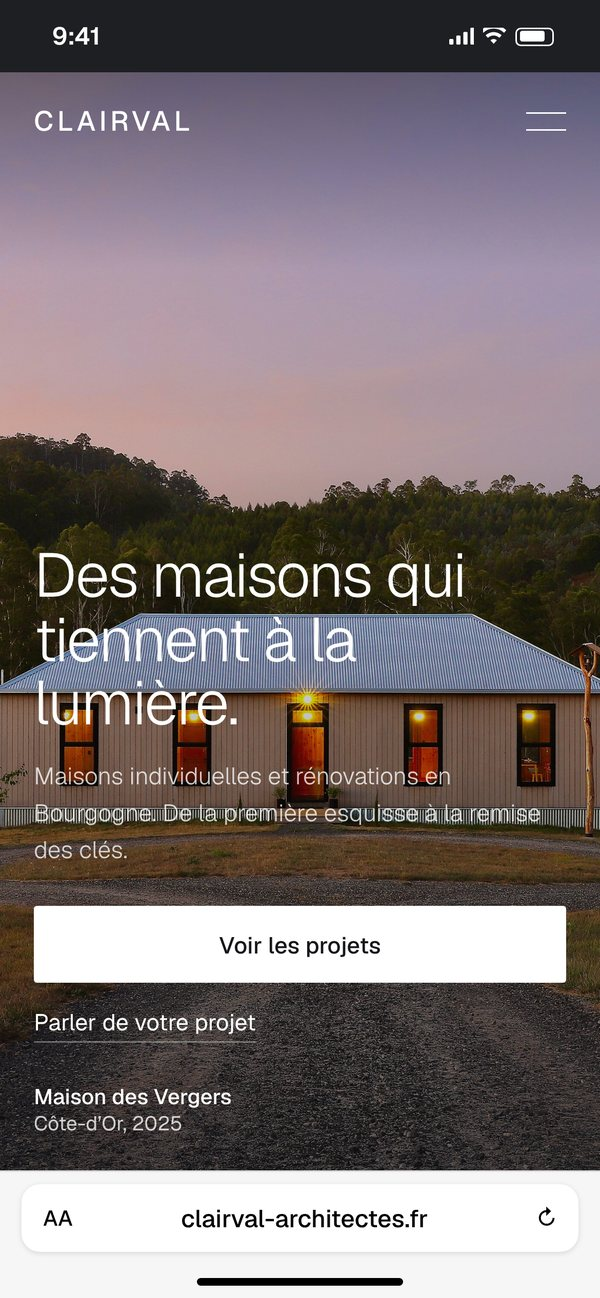
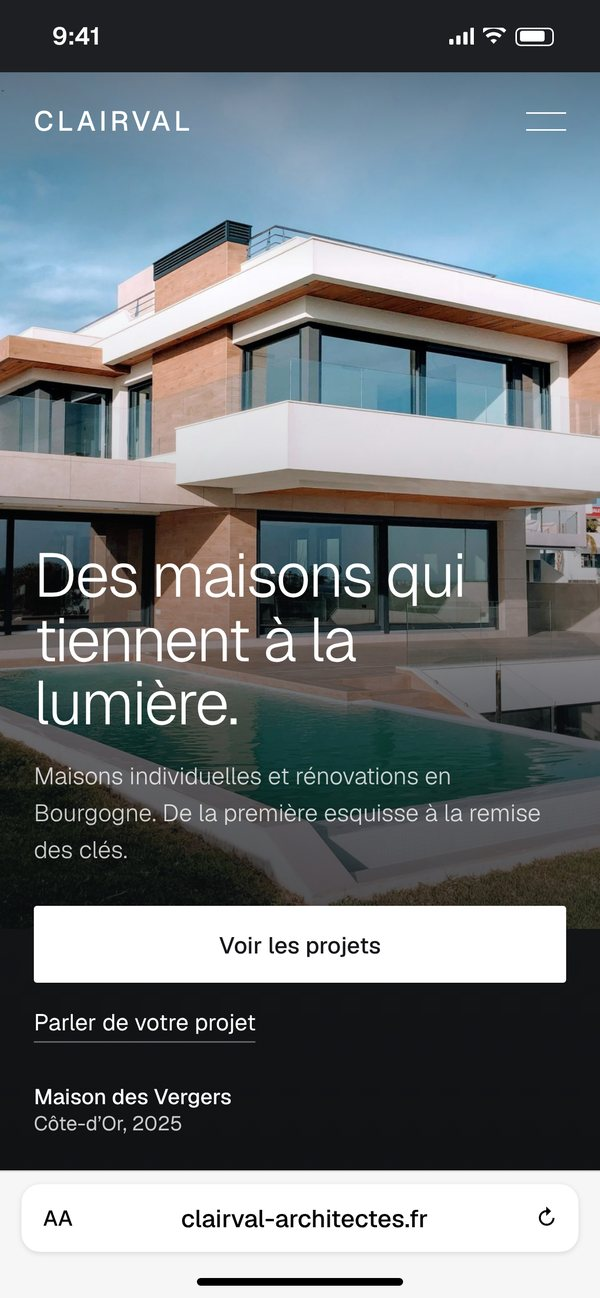
Villa dans la maquette d'architecte, boutons de devis en moutarde
- Écrans du MacBook et de l'iPhone refaits avec la photo de villa fournie
- Voile de lecture sur le côté du titre de la maquette
- Boutons « Demander un devis » en moutarde sur tout le site
- Fond moutarde pâle derrière les appareils, filet moutarde sur les garanties

Claude-Session: https://claude.ai/code/session_015KaNtPX6FjVJgCZw71evrJ

diff --git a/assets/css/site.css b/assets/css/site.css
@@ -53,10 +53,9 @@ strong, b { font-weight: 600; }
 /* ---------- Boutons et liens ---------- */
 .btn { display: inline-flex; align-items: center; justify-content: center; min-height: 50px; padding: 0 22px; border-radius: 10px; background: var(--ink); color: #fff; text-decoration: none; font-size: 16px; font-weight: 600; letter-spacing: -.005em; white-space: nowrap; transition: background-color .2s, color .2s, box-shadow .2s; }
 .btn:hover { background: #3A3833; }
-.btn--mustard { background: var(--ink); color: #fff; }
-.btn--mustard:hover { background: #3A3833; }
-.ink .btn--mustard, .cta .btn--mustard, .mbar .btn--mustard, .menu .btn--mustard, .plan--pro .btn--mustard { background: var(--mustard); color: var(--ink); }
-.ink .btn--mustard:hover, .cta .btn--mustard:hover, .mbar .btn--mustard:hover, .menu .btn--mustard:hover, .plan--pro .btn--mustard:hover { background: var(--mustard-2); }
+/* Le bouton de demande de devis : la seule touche de couleur vive du site */
+.btn--mustard { background: var(--mustard); color: var(--ink); }
+.btn--mustard:hover { background: var(--mustard-2); }
 .btn--ghost { background: transparent; color: inherit; box-shadow: inset 0 0 0 1.5px var(--line-d2); }
 .btn--ghost:hover { background: rgba(242, 238, 228, .08); box-shadow: inset 0 0 0 1.5px var(--cream); }
 .btn--line { background: transparent; color: var(--ink); box-shadow: inset 0 0 0 1.5px var(--line-2); }
@@ -128,7 +127,7 @@ main { display: block; }
 
 /* Les appareils sont dessinés en pourcentages : ils suivent la largeur de leur colonne */
 .devices { margin: 0; }
-.devices__stage { position: relative; padding-bottom: 5%; }
+.devices__stage { position: relative; padding: 7% 5% 6%; border-radius: clamp(14px, 1.8vw, 24px); background: #F7EDC9; }
 .mbp { position: relative; width: 94%; }
 .mbp__lid { width: 89%; margin: 0 auto; padding: 1.5% 1.45% 2.3%; background: #0E0E0F; border-radius: clamp(10px, 1.5vw, 22px) clamp(10px, 1.5vw, 22px) 4px 4px; box-shadow: inset 0 0 0 1.5px #3A3A3D, 0 0 0 1.5px #B8B9BC; }
 .mbp__screen { position: relative; aspect-ratio: 1600 / 1039; overflow: hidden; border-radius: clamp(3px, .5vw, 8px) clamp(3px, .5vw, 8px) 1px 1px; background: #1d1f22; }
@@ -137,7 +136,7 @@ main { display: block; }
 .mbp__base { position: relative; height: 0; padding-bottom: 2.4%; margin-top: -1px; border-radius: 1px 1px 50% 50% / 1px 1px 100% 100%; background: linear-gradient(#E4E5E7, #C9CACD 50%, #95969A); }
 .mbp__base i { position: absolute; left: 50%; top: 0; width: 14%; height: 40%; transform: translateX(-50%); border-radius: 0 0 8px 8px; background: linear-gradient(#ACADB0, #D2D3D6); }
 .mbp::after { content: ""; position: absolute; left: 6%; right: 6%; bottom: -3.2%; height: 4%; border-radius: 50%; background: radial-gradient(closest-side, rgba(20, 20, 18, .28), transparent); z-index: -1; }
-.iph { position: absolute; right: 0; bottom: 0; width: 23.5%; padding: 1.05%; background: #121213; border-radius: 15.5% / 7.4%; box-shadow: inset 0 0 0 1.5px #4A4A4E, 0 0 0 1px #9C9DA1, 0 28px 48px -22px rgba(20, 20, 18, .55); }
+.iph { position: absolute; right: 4%; bottom: 4%; width: 22%; padding: 1%; background: #121213; border-radius: 15.5% / 7.4%; box-shadow: inset 0 0 0 1.5px #4A4A4E, 0 0 0 1px #9C9DA1, 0 28px 48px -22px rgba(20, 20, 18, .55); }
 .iph__screen { position: relative; aspect-ratio: 600 / 1298; overflow: hidden; border-radius: 13.6% / 6.3%; background: #1d1f22; }
 .iph__screen img { display: block; width: 100%; height: 100%; object-fit: cover; }
 .iph__notch { position: absolute; left: 50%; top: 0; width: 41%; height: 3.8%; transform: translateX(-50%); background: #000; border-radius: 0 0 14px 14px; }
@@ -194,7 +193,7 @@ a.browser { display: block; text-decoration: none; color: inherit; }
 
 /* ---------- Repères ---------- */
 .keys { display: grid; grid-template-columns: repeat(4, minmax(0, 1fr)); gap: 24px 32px; }
-.keys > div { padding-top: 14px; border-top: 1px solid var(--ink); }
+.keys > div { padding-top: 14px; border-top: 2px solid var(--mustard); }
 .keys b { display: block; font-size: 1.12rem; font-weight: 600; letter-spacing: -.015em; }
 .keys span { display: block; margin-top: 4px; color: var(--muted); font-size: 15.5px; }
 

diff --git a/index.html b/index.html
@@ -21,7 +21,7 @@
   <link rel="preload" href="assets/fonts/bricolage-grotesque.woff2" as="font" type="font/woff2" crossorigin>
   <link rel="preload" href="assets/fonts/geist.woff2" as="font" type="font/woff2" crossorigin>
   <link rel="stylesheet" href="assets/css/fonts.css">
-  <link rel="stylesheet" href="assets/css/site.css?v=f07e5ffe">
+  <link rel="stylesheet" href="assets/css/site.css?v=63537206">
   <script type="application/ld+json">
   {
     "@context": "https://schema.org",
@@ -238,7 +238,7 @@
     <a class="btn btn--mustard" href="contact.html">Demander un devis</a>
   </div>
 
-  <script src="assets/js/site.js?v=f07e5ffe" defer></script>
+  <script src="assets/js/site.js?v=63537206" defer></script>
 
 </body>
 </html>

diff --git a/a-propos.html b/a-propos.html
@@ -21,7 +21,7 @@
   <link rel="preload" href="assets/fonts/bricolage-grotesque.woff2" as="font" type="font/woff2" crossorigin>
   <link rel="preload" href="assets/fonts/geist.woff2" as="font" type="font/woff2" crossorigin>
   <link rel="stylesheet" href="assets/css/fonts.css">
-  <link rel="stylesheet" href="assets/css/site.css?v=f07e5ffe">
+  <link rel="stylesheet" href="assets/css/site.css?v=63537206">
 
 </head>
 <body class="">
@@ -129,7 +129,7 @@
     <a class="btn btn--mustard" href="contact.html">Demander un devis</a>
   </div>
 
-  <script src="assets/js/site.js?v=f07e5ffe" defer></script>
+  <script src="assets/js/site.js?v=63537206" defer></script>
 
 </body>
 </html>

diff --git a/confidentialite.html b/confidentialite.html
@@ -21,7 +21,7 @@
   <link rel="preload" href="assets/fonts/bricolage-grotesque.woff2" as="font" type="font/woff2" crossorigin>
   <link rel="preload" href="assets/fonts/geist.woff2" as="font" type="font/woff2" crossorigin>
   <link rel="stylesheet" href="assets/css/fonts.css">
-  <link rel="stylesheet" href="assets/css/site.css?v=f07e5ffe">
+  <link rel="stylesheet" href="assets/css/site.css?v=63537206">
 
 </head>
 <body class="">
@@ -161,7 +161,7 @@
     <a class="btn btn--mustard" href="contact.html">Demander un devis</a>
   </div>
 
-  <script src="assets/js/site.js?v=f07e5ffe" defer></script>
+  <script src="assets/js/site.js?v=63537206" defer></script>
 
 </body>
 </html>

diff --git a/contact.html b/contact.html
@@ -21,7 +21,7 @@
   <link rel="preload" href="assets/fonts/bricolage-grotesque.woff2" as="font" type="font/woff2" crossorigin>
   <link rel="preload" href="assets/fonts/geist.woff2" as="font" type="font/woff2" crossorigin>
   <link rel="stylesheet" href="assets/css/fonts.css">
-  <link rel="stylesheet" href="assets/css/site.css?v=f07e5ffe">
+  <link rel="stylesheet" href="assets/css/site.css?v=63537206">
 
 </head>
 <body class="">
@@ -206,7 +206,7 @@
     <a class="btn btn--mustard" href="contact.html">Demander un devis</a>
   </div>
 
-  <script src="assets/js/site.js?v=f07e5ffe" defer></script>
+  <script src="assets/js/site.js?v=63537206" defer></script>
 
 </body>
 </html>

diff --git a/faq.html b/faq.html
@@ -21,7 +21,7 @@
   <link rel="preload" href="assets/fonts/bricolage-grotesque.woff2" as="font" type="font/woff2" crossorigin>
   <link rel="preload" href="assets/fonts/geist.woff2" as="font" type="font/woff2" crossorigin>
   <link rel="stylesheet" href="assets/css/fonts.css">
-  <link rel="stylesheet" href="assets/css/site.css?v=f07e5ffe">
+  <link rel="stylesheet" href="assets/css/site.css?v=63537206">
 
 </head>
 <body class="">
@@ -140,7 +140,7 @@
     <a class="btn btn--mustard" href="contact.html">Demander un devis</a>
   </div>
 
-  <script src="assets/js/site.js?v=f07e5ffe" defer></script>
+  <script src="assets/js/site.js?v=63537206" defer></script>
 
 </body>
 </html>

diff --git a/mentions-legales.html b/mentions-legales.html
@@ -21,7 +21,7 @@
   <link rel="preload" href="assets/fonts/bricolage-grotesque.woff2" as="font" type="font/woff2" crossorigin>
   <link rel="preload" href="assets/fonts/geist.woff2" as="font" type="font/woff2" crossorigin>
   <link rel="stylesheet" href="assets/css/fonts.css">
-  <link rel="stylesheet" href="assets/css/site.css?v=f07e5ffe">
+  <link rel="stylesheet" href="assets/css/site.css?v=63537206">
 
 </head>
 <body class="">
@@ -149,7 +149,7 @@
     <a class="btn btn--mustard" href="contact.html">Demander un devis</a>
   </div>
 
-  <script src="assets/js/site.js?v=f07e5ffe" defer></script>
+  <script src="assets/js/site.js?v=63537206" defer></script>
 
 </body>
 </html>

diff --git a/methode.html b/methode.html
@@ -21,7 +21,7 @@
   <link rel="preload" href="assets/fonts/bricolage-grotesque.woff2" as="font" type="font/woff2" crossorigin>
   <link rel="preload" href="assets/fonts/geist.woff2" as="font" type="font/woff2" crossorigin>
   <link rel="stylesheet" href="assets/css/fonts.css">
-  <link rel="stylesheet" href="assets/css/site.css?v=f07e5ffe">
+  <link rel="stylesheet" href="assets/css/site.css?v=63537206">
 
 </head>
 <body class="">
@@ -150,7 +150,7 @@
     <a class="btn btn--mustard" href="contact.html">Demander un devis</a>
   </div>
 
-  <script src="assets/js/site.js?v=f07e5ffe" defer></script>
+  <script src="assets/js/site.js?v=63537206" defer></script>
 
 </body>
 </html>

diff --git a/offres.html b/offres.html
@@ -21,7 +21,7 @@
   <link rel="preload" href="assets/fonts/bricolage-grotesque.woff2" as="font" type="font/woff2" crossorigin>
   <link rel="preload" href="assets/fonts/geist.woff2" as="font" type="font/woff2" crossorigin>
   <link rel="stylesheet" href="assets/css/fonts.css">
-  <link rel="stylesheet" href="assets/css/site.css?v=f07e5ffe">
+  <link rel="stylesheet" href="assets/css/site.css?v=63537206">
 
 </head>
 <body class="">
@@ -207,7 +207,7 @@
     <a class="btn btn--mustard" href="contact.html">Demander un devis</a>
   </div>
 
-  <script src="assets/js/site.js?v=f07e5ffe" defer></script>
+  <script src="assets/js/site.js?v=63537206" defer></script>
 
 </body>
 </html>

diff --git a/realisations.html b/realisations.html
@@ -21,7 +21,7 @@
   <link rel="preload" href="assets/fonts/bricolage-grotesque.woff2" as="font" type="font/woff2" crossorigin>
   <link rel="preload" href="assets/fonts/geist.woff2" as="font" type="font/woff2" crossorigin>
   <link rel="stylesheet" href="assets/css/fonts.css">
-  <link rel="stylesheet" href="assets/css/site.css?v=f07e5ffe">
+  <link rel="stylesheet" href="assets/css/site.css?v=63537206">
 
 </head>
 <body class="">
@@ -222,7 +222,7 @@
     <a class="btn btn--mustard" href="contact.html">Demander un devis</a>
   </div>
 
-  <script src="assets/js/site.js?v=f07e5ffe" defer></script>
+  <script src="assets/js/site.js?v=63537206" defer></script>
 
 </body>
 </html>

diff --git a/404.html b/404.html
@@ -22,7 +22,7 @@
   <link rel="preload" href="assets/fonts/bricolage-grotesque.woff2" as="font" type="font/woff2" crossorigin>
   <link rel="preload" href="assets/fonts/geist.woff2" as="font" type="font/woff2" crossorigin>
   <link rel="stylesheet" href="assets/css/fonts.css">
-  <link rel="stylesheet" href="assets/css/site.css?v=f07e5ffe">
+  <link rel="stylesheet" href="assets/css/site.css?v=63537206">
 
 </head>
 <body class="">
@@ -97,7 +97,7 @@
     <a class="btn btn--mustard" href="contact.html">Demander un devis</a>
   </div>
 
-  <script src="assets/js/site.js?v=f07e5ffe" defer></script>
+  <script src="assets/js/site.js?v=63537206" defer></script>
 
 </body>
 </html>
